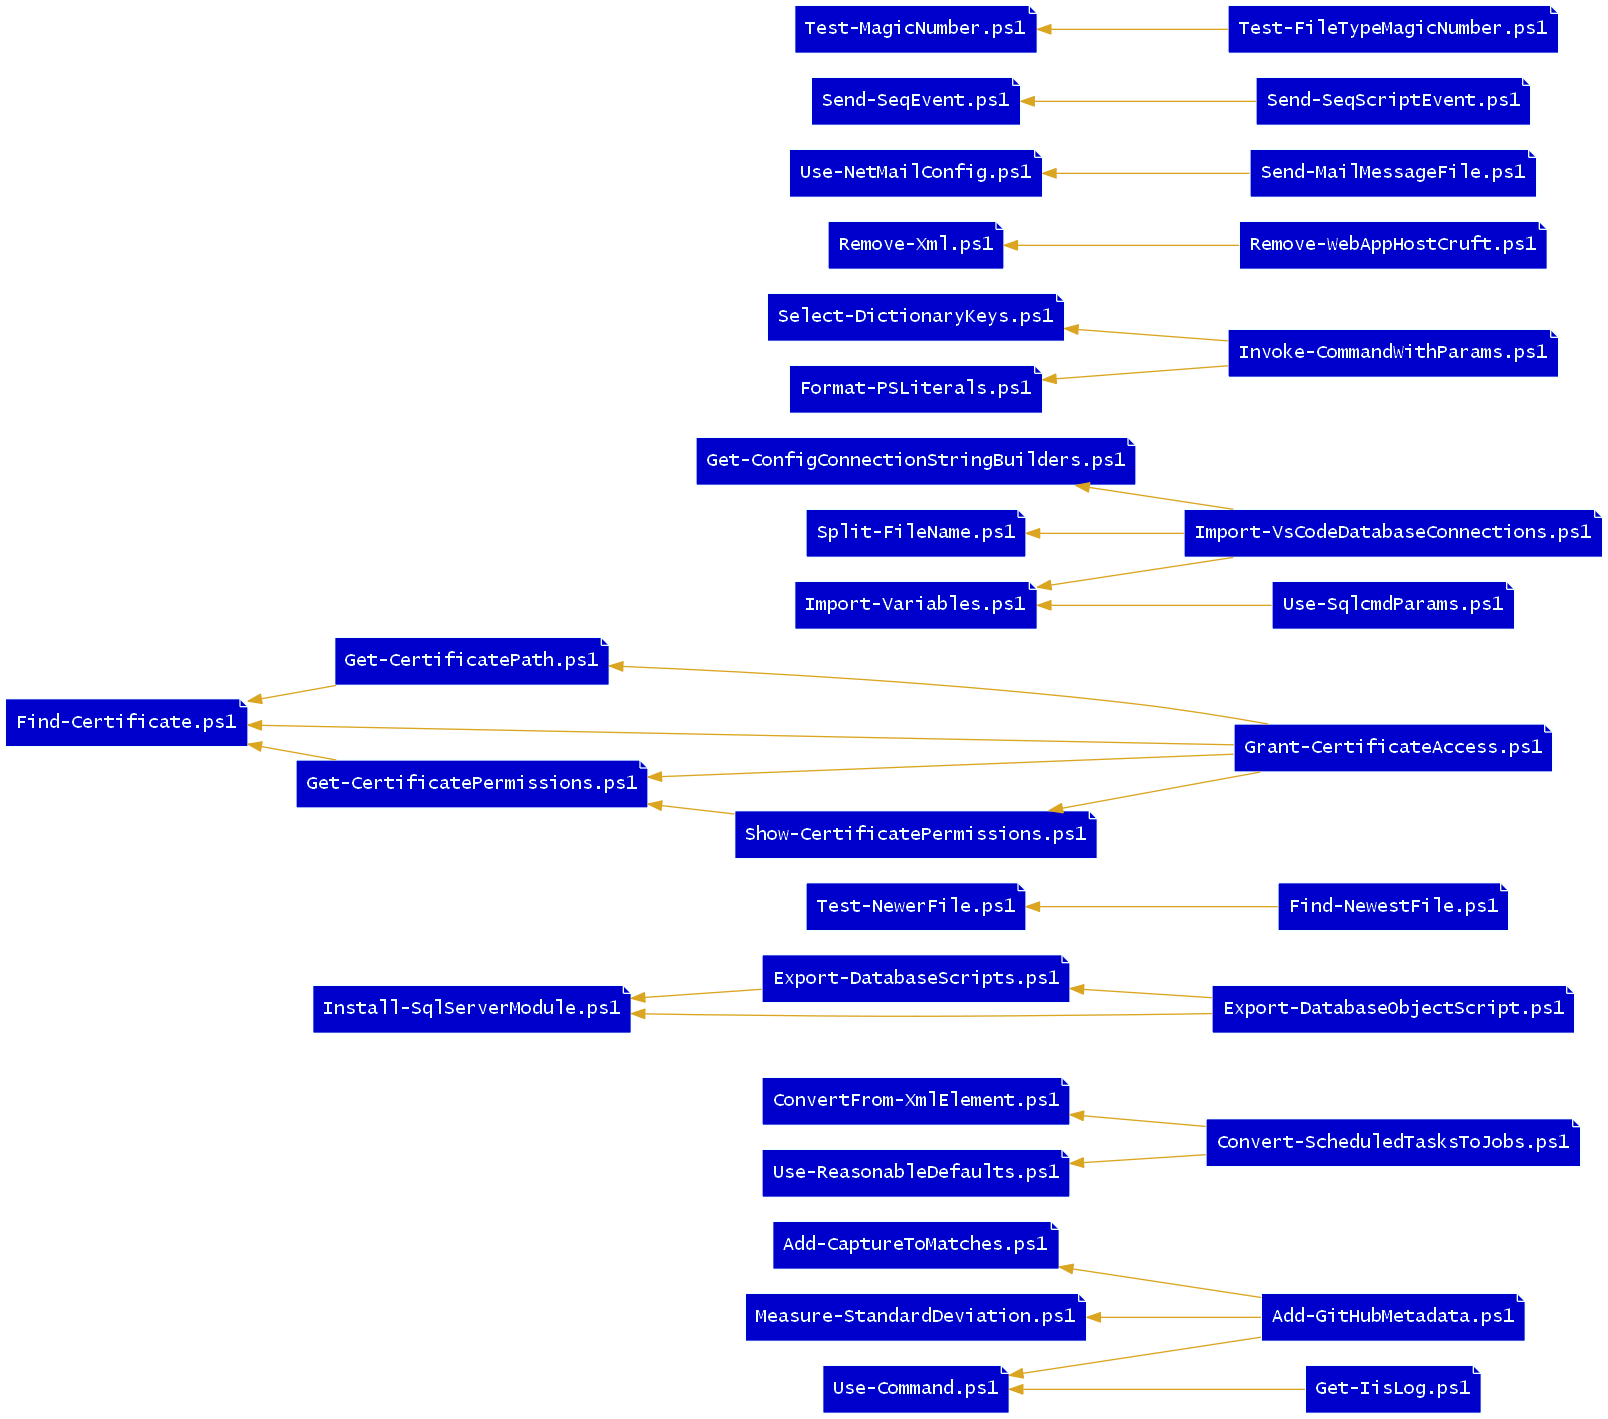
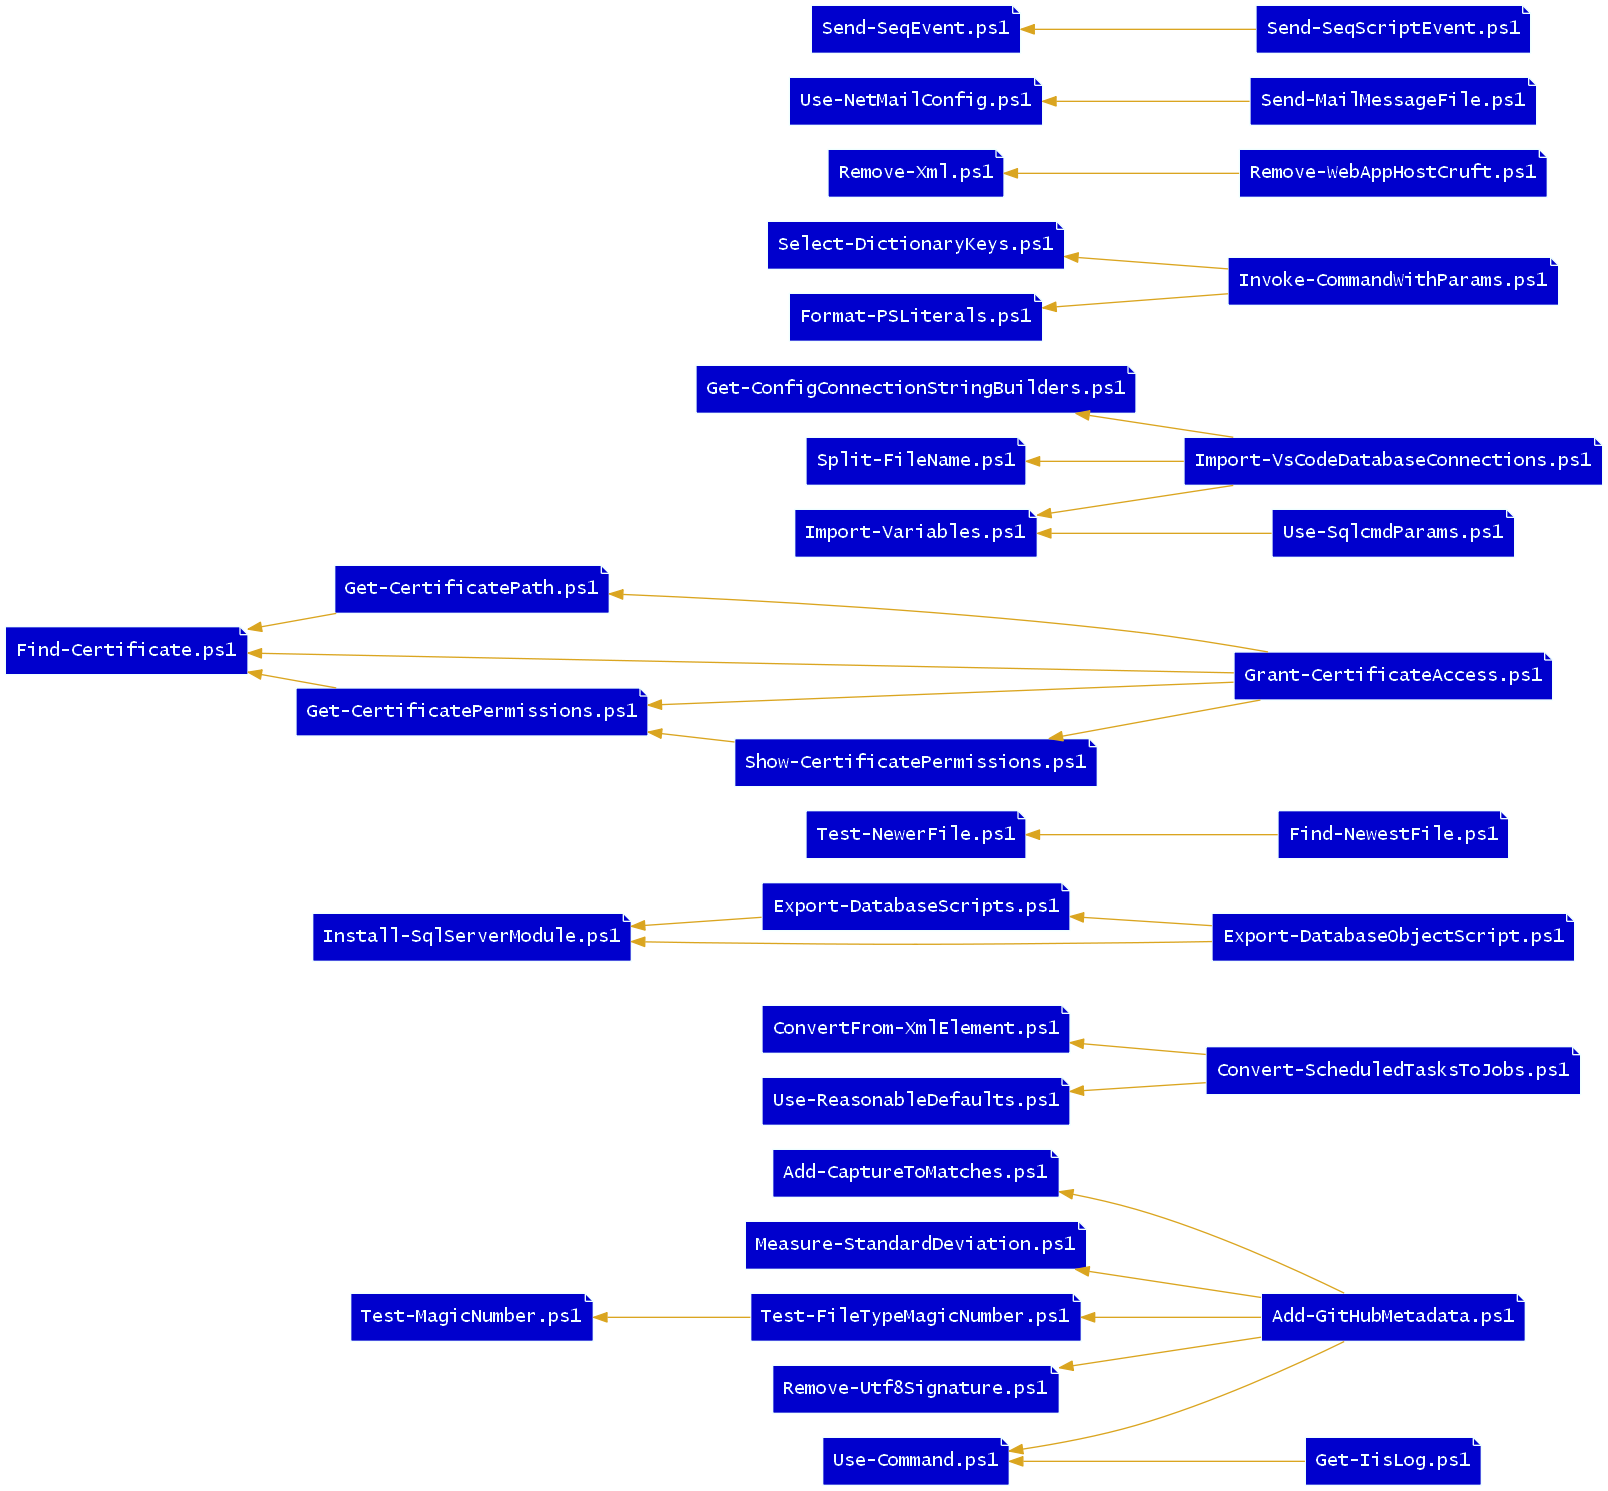
Break out UTF8 BOM/SIG scripts

diff --git a/README.md b/README.md
@@ -8,6 +8,7 @@ PowerShell Scripts
 
 - **[Add-CapturesToMatches.ps1](Add-CapturesToMatches.ps1)**: Adds named capture groups as note properties to Select-String's MatchInfo objects.
 - **[Add-GitHubMetadata.ps1](Add-GitHubMetadata.ps1)**: Adds GitHub Linguist overrides to a repo's .gitattributes.
+- **[Add-Utf8Signature.ps1](Add-Utf8Signature.ps1)**: Adds the utf-8 signature (BOM) from a file.
 - **[Add-VsCodeDatabaseConnection.ps1](Add-VsCodeDatabaseConnection.ps1)**: Adds a VS Code MSSQL database connection to the repo.
 - **[Add-Xml.ps1](Add-Xml.ps1)**: Insert XML into an XML document relative to a node found by Select-Xml.
 - **[Backup-File.ps1](Backup-File.ps1)**: Create a backup as a sibling to a file, with date and time values in the name.
@@ -65,6 +66,7 @@ PowerShell Scripts
 - **[Optimize-Path.ps1](Optimize-Path.ps1)**: Sorts, prunes, and normalizes both user and system Path entries.
 - **[Read-Choice.ps1](Read-Choice.ps1)**: Returns choice selected from a list of options.
 - **[Remove-LockyFile.ps1](Remove-LockyFile.ps1)**: Removes a file that may be prone to locking.
+- **[Remove-Utf8Signature.ps1](Remove-Utf8Signature.ps1)**: Removes the utf-8 signature (BOM) from a file.
 - **[Remove-WebAppHostCruft.ps1](Remove-WebAppHostCruft.ps1)**: Removes unused web application settings that have accumulated.
 - **[Remove-Xml.ps1](Remove-Xml.ps1)**: Removes a node found by Select-Xml from its XML document.
 - **[Repair-DatabaseConstraintNames.ps1](Repair-DatabaseConstraintNames.ps1)**: Finds database constraints with system-generated names and gives them deterministic names.
@@ -107,4 +109,4 @@ Office VBA Scripts
 - **[OutlookPasteFormattedIndented.vba](OutlookPasteFormattedIndented.vba)**: Outlook will strip single-space indents when displaying emails. If you've got, for example, syntax highlighted source code that employs any indentation of only one space, you'll want to add two spaces to the each line (adding one will not appear for text that isn't indented). This Outlook script will paste formatted text, and indent it. Requires Tools -> References -> Microsoft Word 14.0 Object Library (later versions may also work) 
 - **[OutlookPasteTsvTable.vba](OutlookPasteTsvTable.vba)**: This Outlook VBA Sub can be connected to a toolbar button for pasting TSV data as an attractive, formatted table. -BL Requires Tools -> References -> Microsoft Word 14.0 Object Library (later versions may also work) 
 
-<!-- generated 03/03/2018 17:59:05 -->
+<!-- generated 03/05/2018 14:39:21 -->
